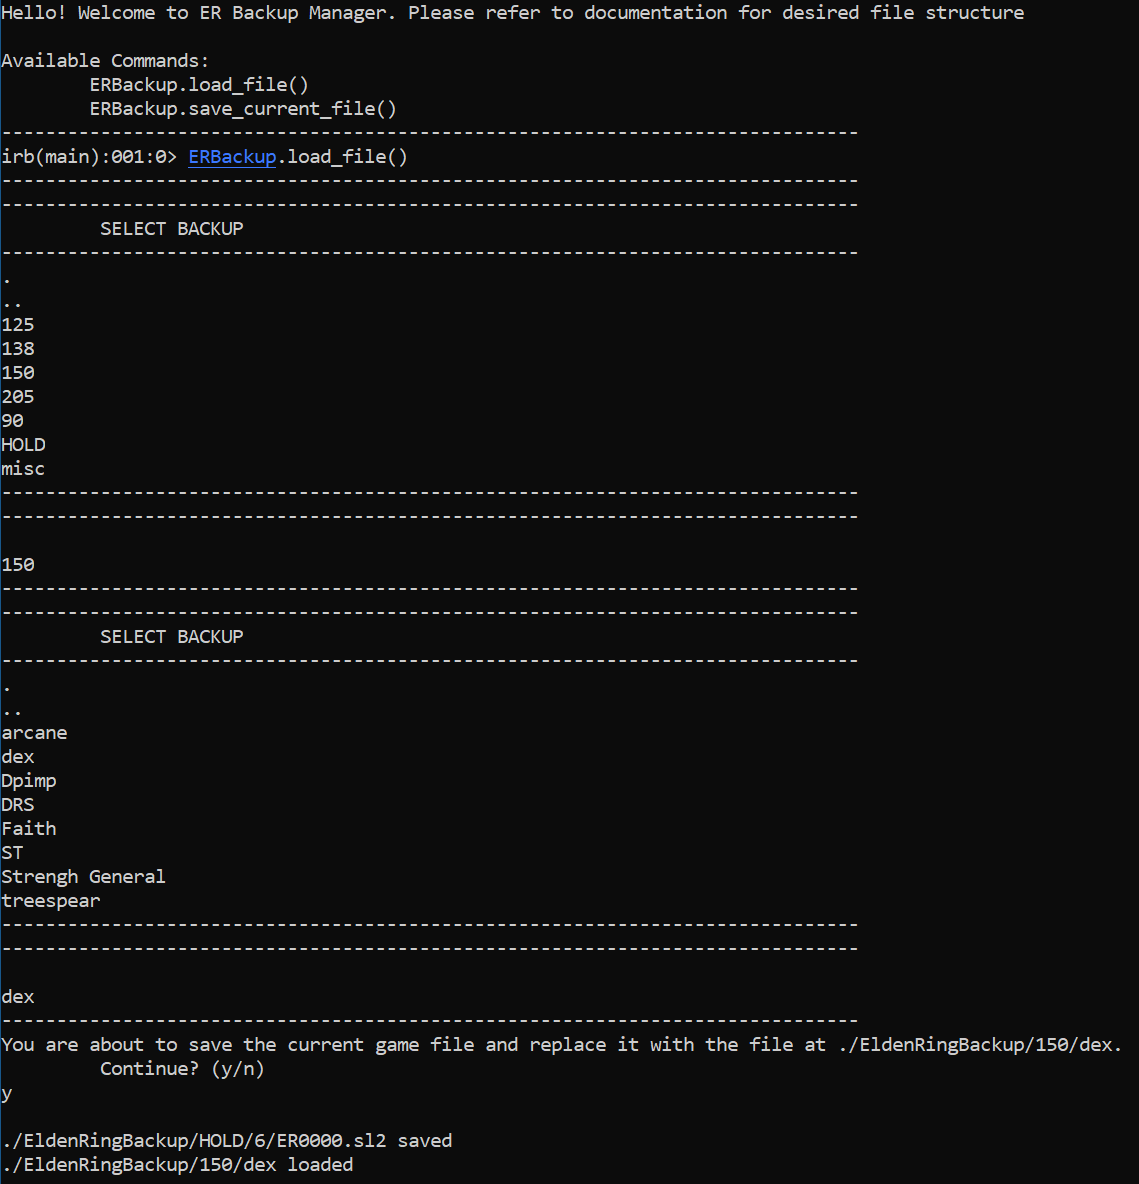
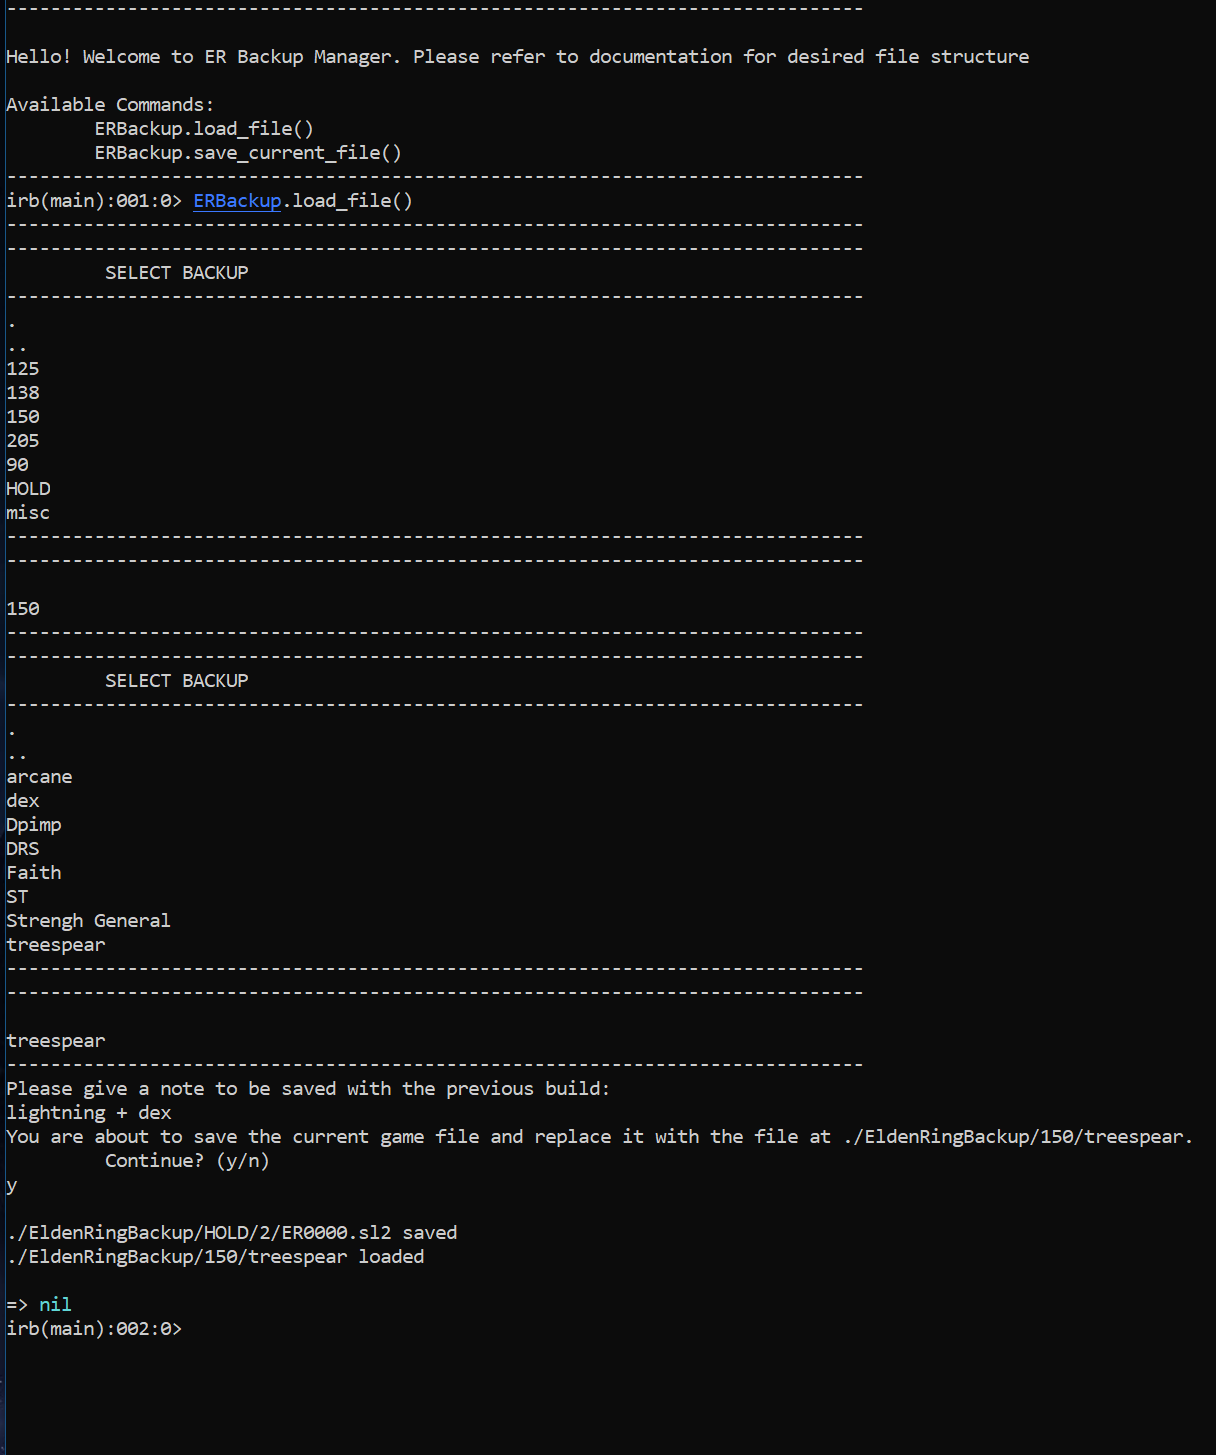
add build note and edit sample

diff --git a/index.rb b/index.rb
@@ -10,7 +10,7 @@ class ERBackup
   @@hold_folder = './EldenRingBackup/HOLD'
   @@game_folder = './76561199248410024'
 
-  def self.backup_current_file
+  def self.backup_current_file(build_note)
     #take current file and store it in hold for now
     #create new subfolder in hold folder so no overwrites happen
     #find better way to send backup to a location
@@ -21,8 +21,11 @@ class ERBackup
     
     FileUtils.mkdir("#{@@hold_folder}/#{last+1}")
     FileUtils.touch("#{@@hold_folder}/#{last+1}/#{@@game_file_name}")
+    FileUtils.touch("#{@@hold_folder}/#{last+1}/build_note.txt")
 
+    File.open("#{@@hold_folder}/#{last+1}/build_note.txt", 'w') { |file| file.write(build_note) }
     FileUtils.copy_file("#{@@game_folder}/#{@@game_file_name}", "#{@@hold_folder}/#{last+1}/#{@@game_file_name}")
+
     puts "#{@@hold_folder}/#{last+1}/#{@@game_file_name} saved"
   end
 
@@ -62,12 +65,14 @@ class ERBackup
 
           if Array(options2).include? input2
             puts $line
+            puts 'Please give a note to be saved with the previous build:'
+            build_note = gets.chomp
             puts "You are about to save the current game file and replace it with the file at #{full_path}. \n\t Continue? (y/n)"
             input3 = gets.chomp
             case input3
             when 'y'
               puts "\n"
-              ERBackup.backup_current_file()
+              ERBackup.backup_current_file(build_note)
               FileUtils.copy_file("#{@@backup_folder}/#{input1}/#{input2}/#{@@game_file_name}", "#{@@game_folder}/#{@@game_file_name}")
               puts "#{full_path} loaded"
               puts "\n"
